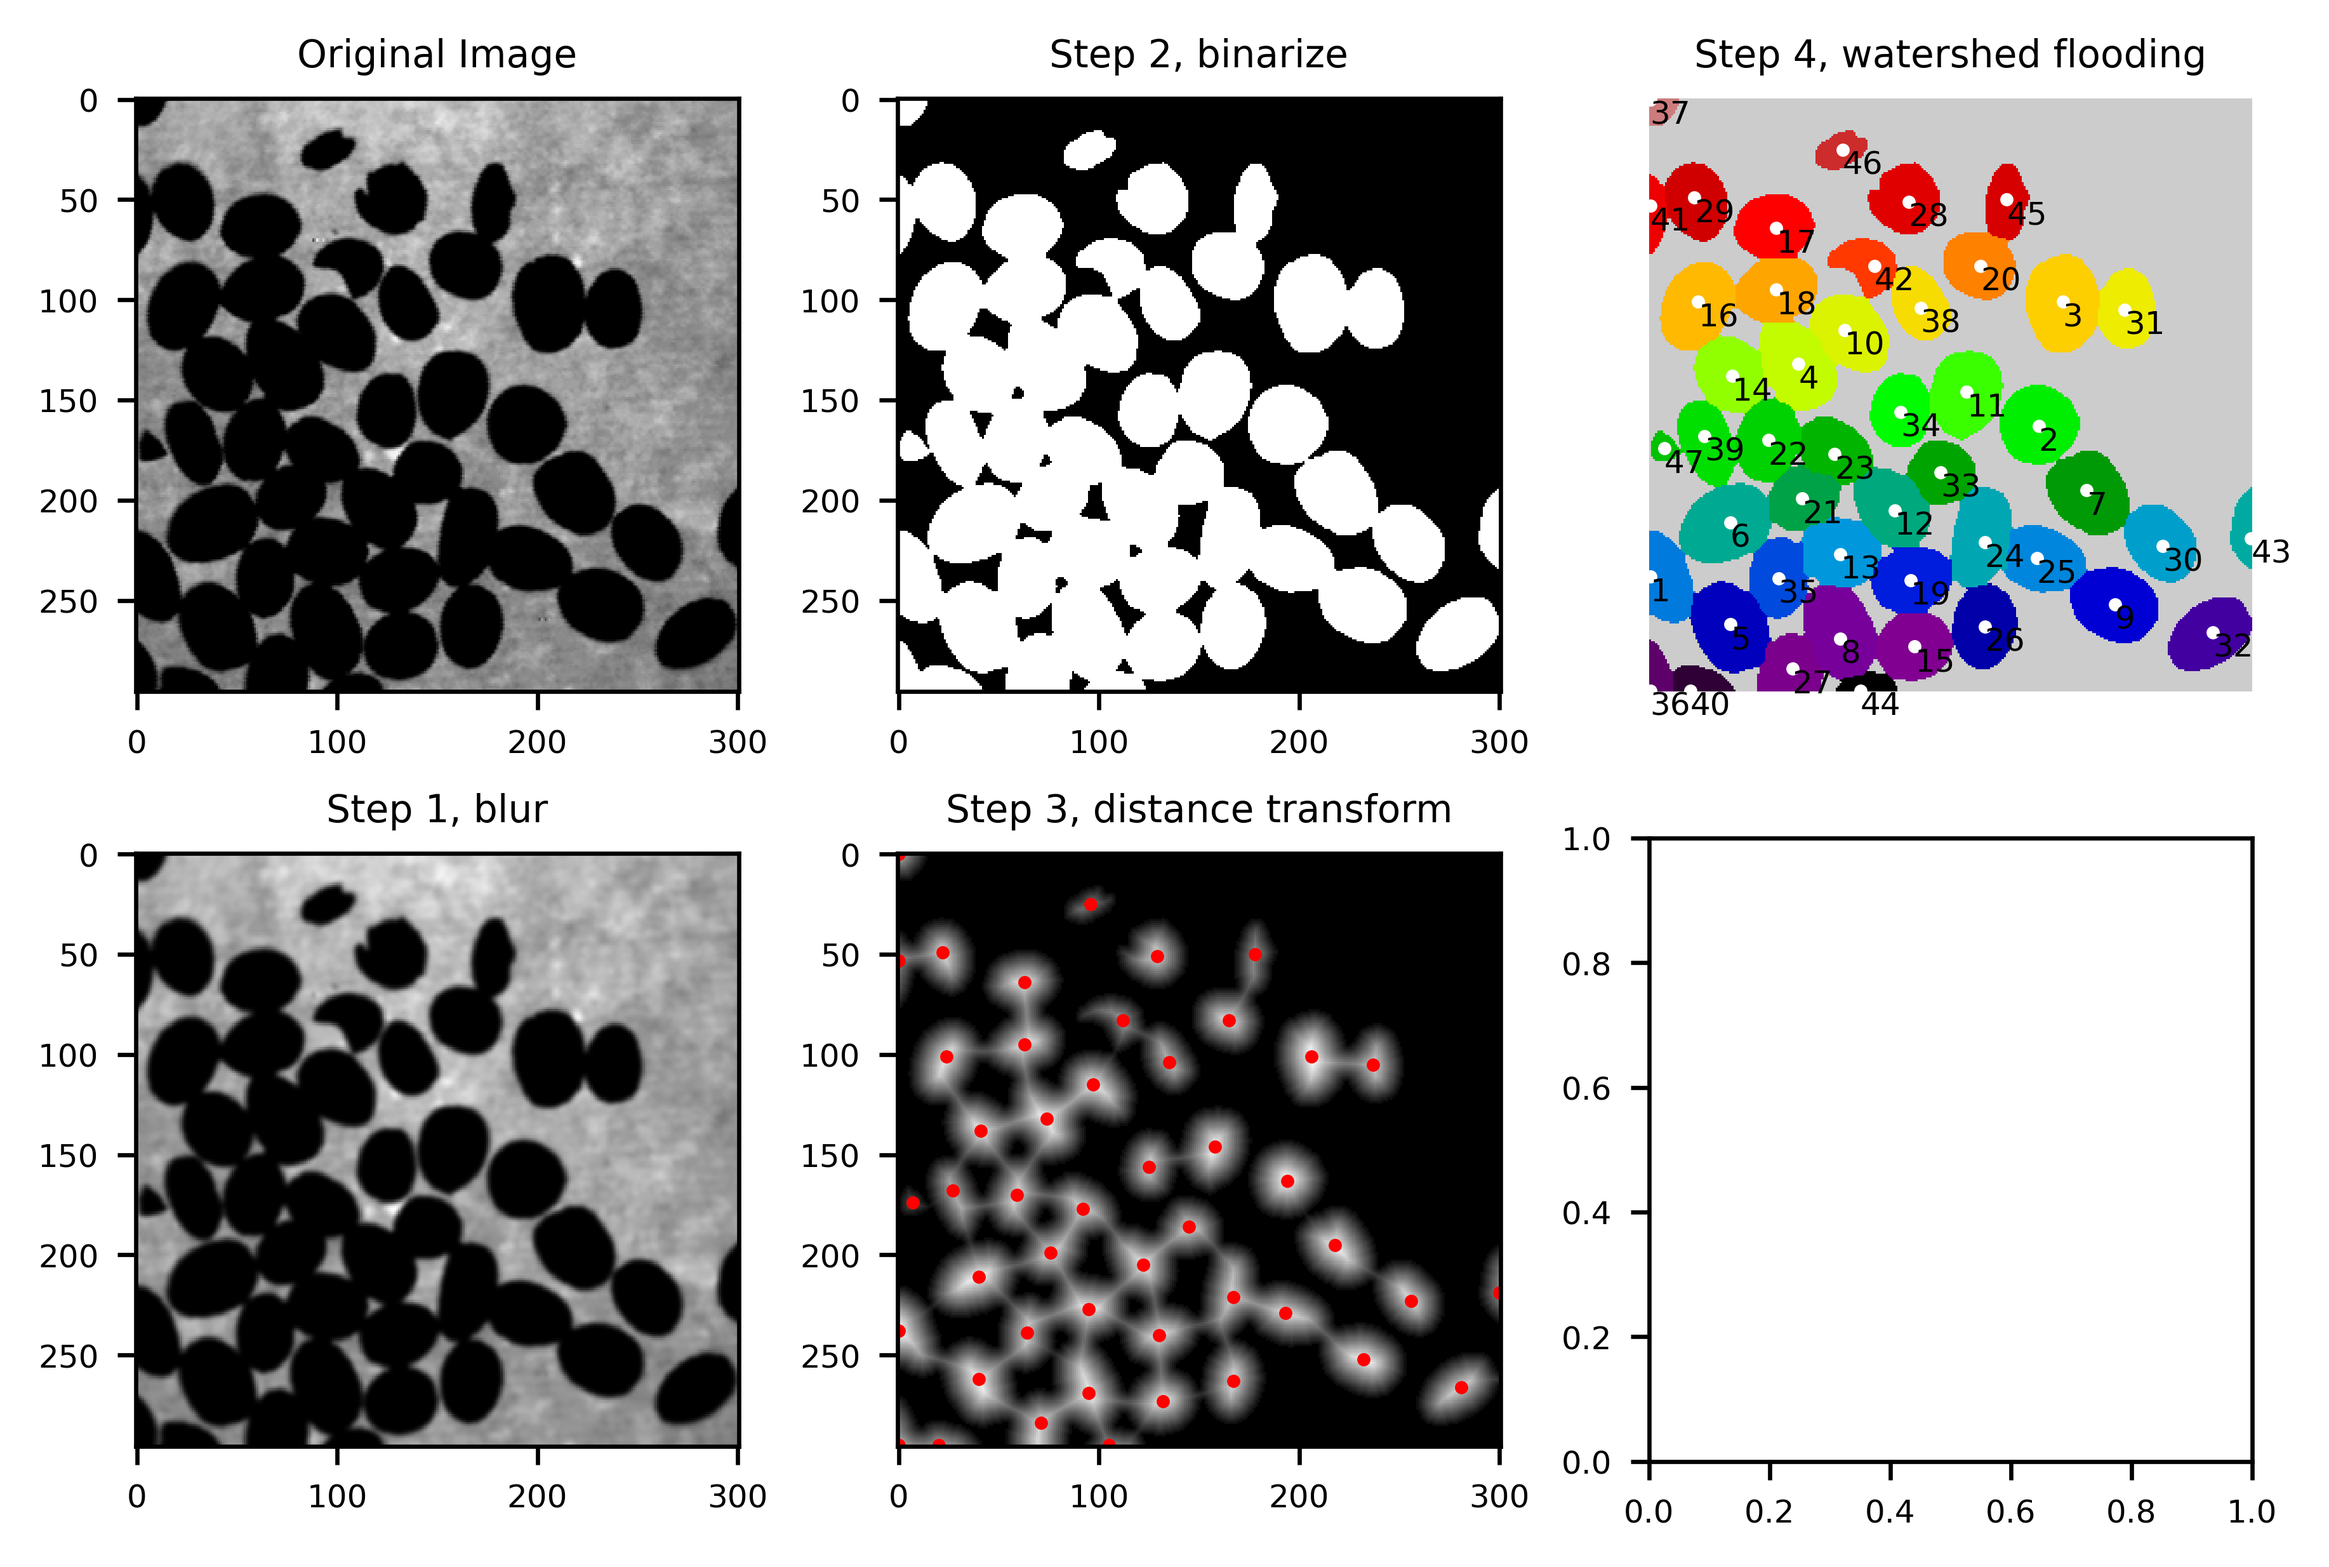
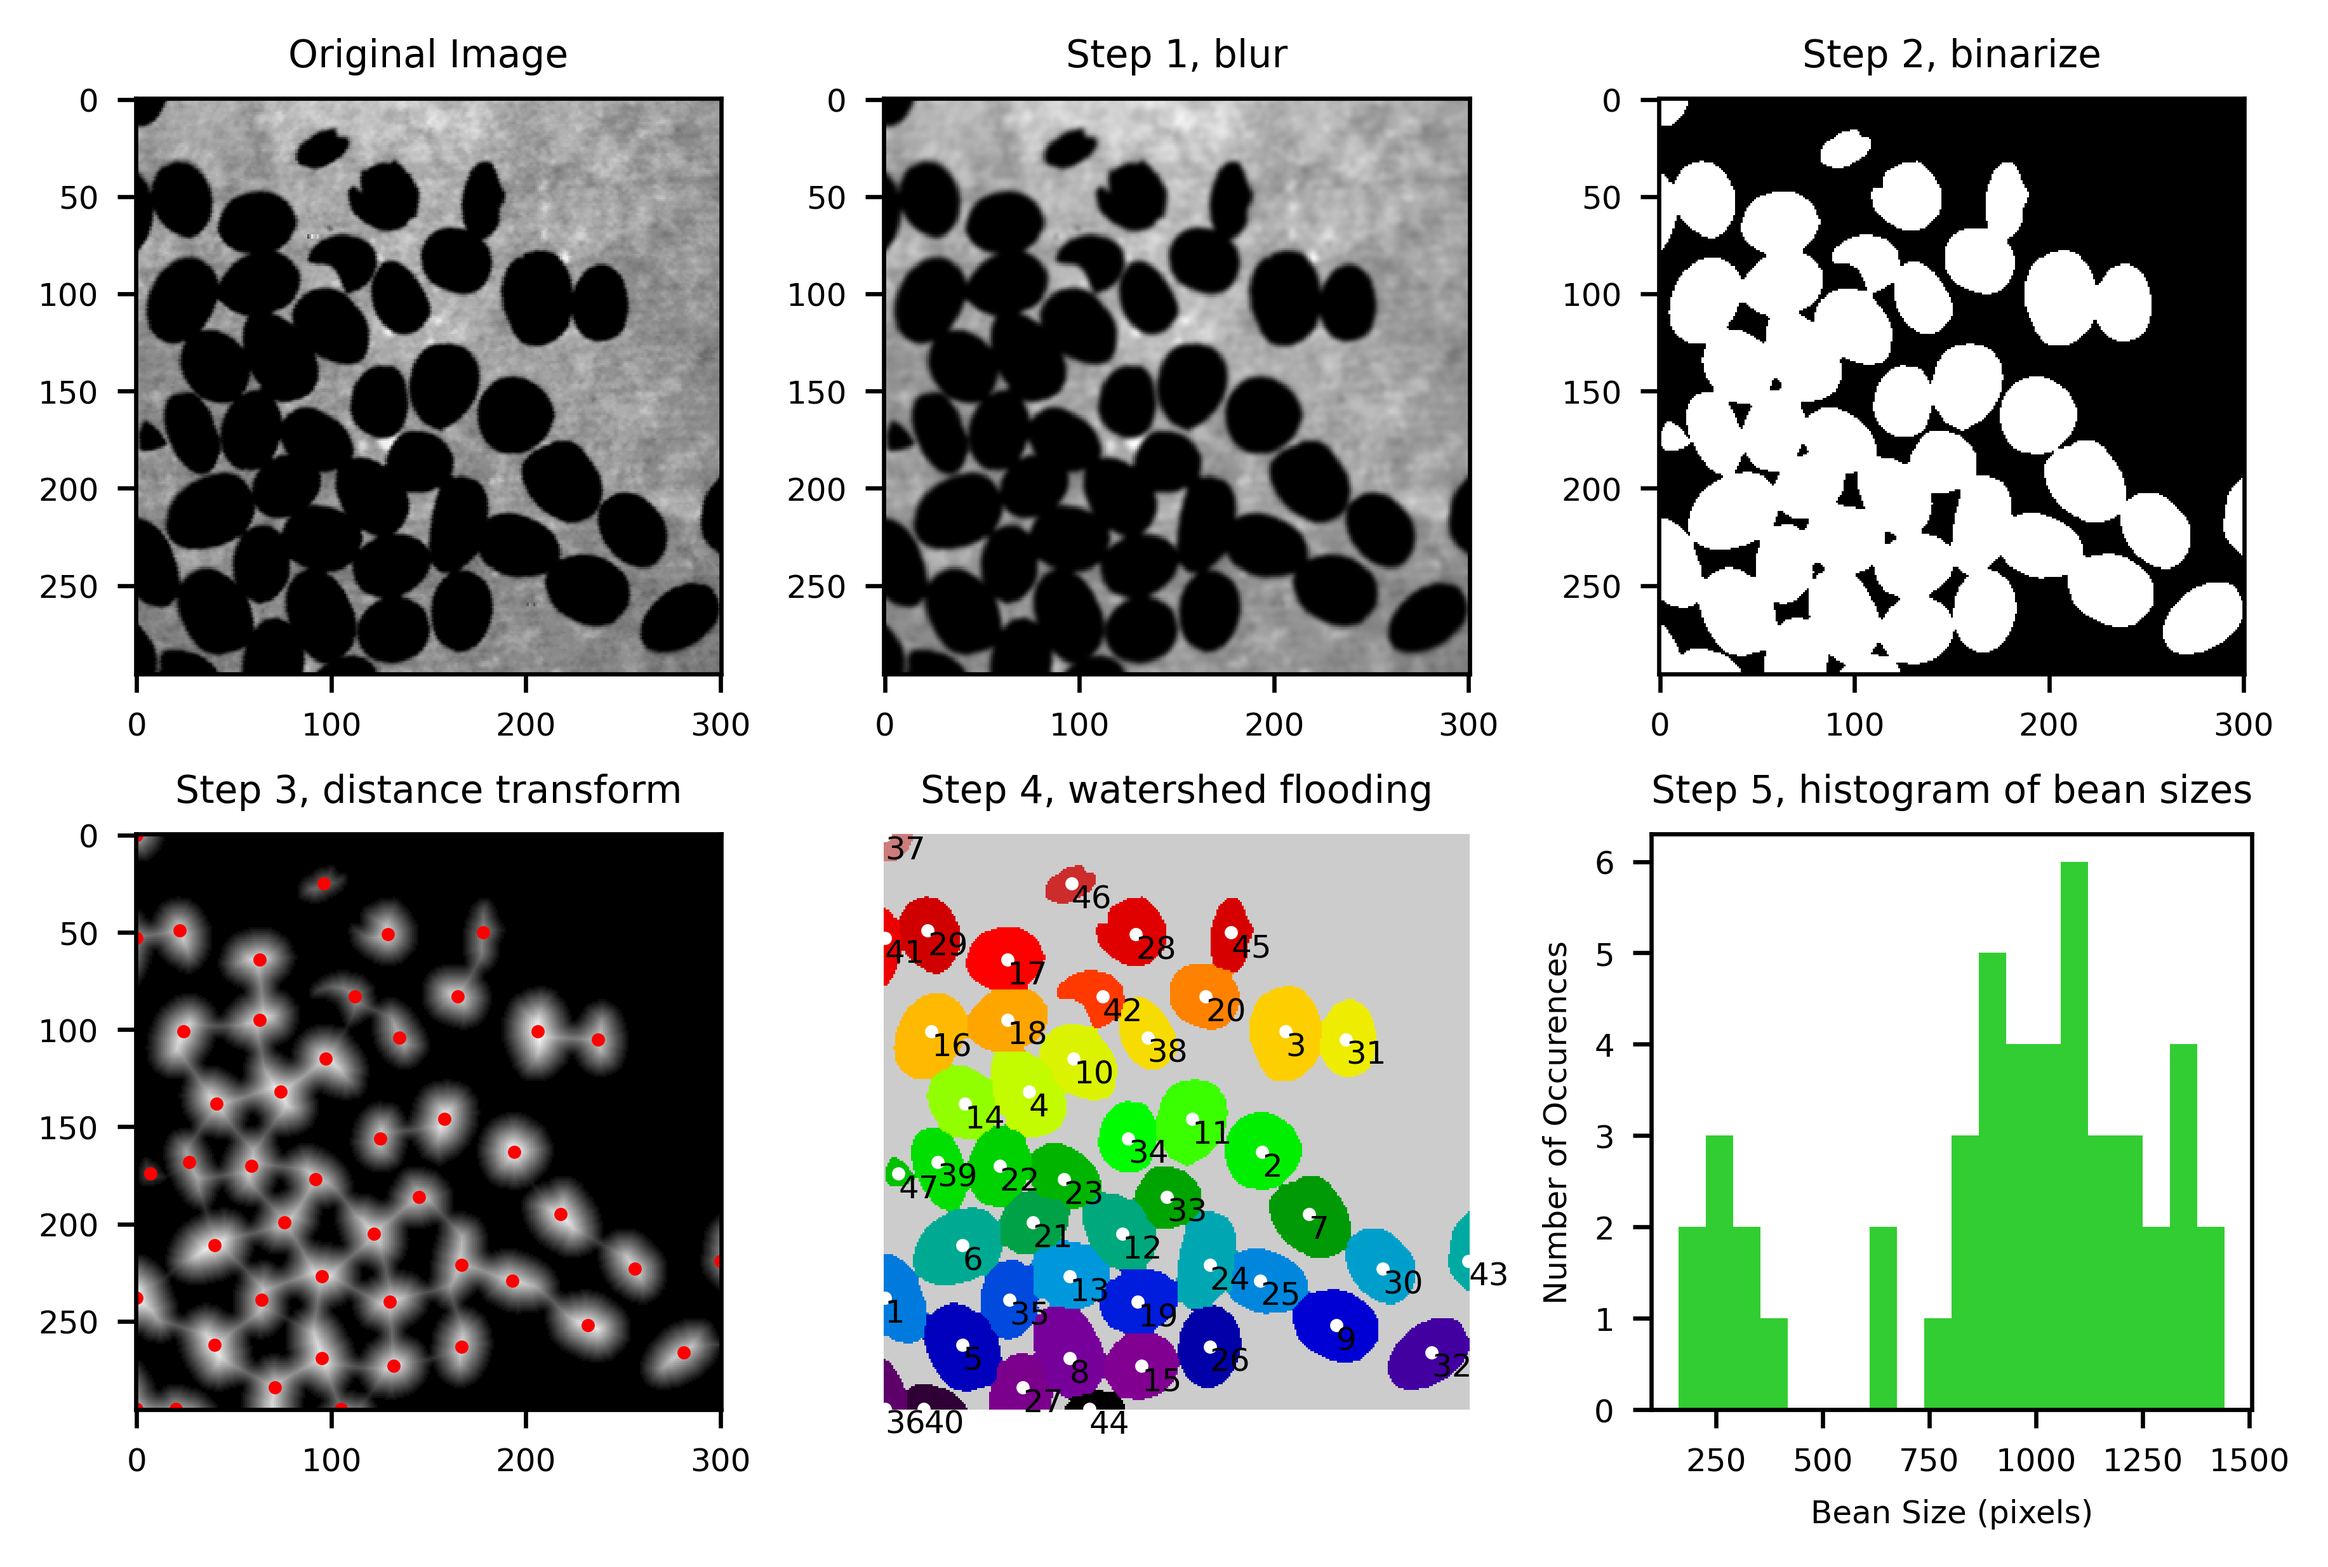
finished assignment
added histogram and stats readout

diff --git a/HW3/coffee_beaner.py b/HW3/coffee_beaner.py
@@ -9,8 +9,8 @@ import cv2
 # ~~~~~~~~~ DEFINITIONS ~~~~~~~~~
 MAX_PIXELS = 500 * 500
 PLOT_GRID = (2, 3)
-PLOC1 = (1,1); PLOC2 = (1,2); PLOC5 = (1,3);
-PLOC3 = (2,1); PLOC4 = (2,2); PLOC6 = (2,3);
+PLOC1 = (1,1); PLOC3 = (1,2); PLOC2 = (1,3);
+PLOC4 = (2,1); PLOC5 = (2,2); PLOC6 = (2,3);
 
 # ~~~~~~~~~~ FUNCTIONS ~~~~~~~~~~
 # display images and figures on 2D grid of plots with name ax[][]
@@ -105,7 +105,6 @@ imgSegments = ski.segmentation.watershed(-imgDistTrans, labels, mask=imgBinary)
 imgNEW = imgSegments
 easy_plot(imgNEW, PLOC5, 'Step 4, watershed flooding', colors=plt.cm.nipy_spectral_r)
 print("Coffee bean count 2: ", int(count))
-print(lowPoints.shape)
 easy_plot(lowPoints, PLOC5, plotType='pointOverlay', colors='w.')
 ax[PLOC5[0]-1][PLOC5[1]-1].set_axis_off()
 for n in range(lowPoints.shape[0]):
@@ -114,3 +113,30 @@ for n in range(lowPoints.shape[0]):
                                         horizontalalignment='left',
                                         verticalalignment='top',
                                         color='black')
+
+# count beans and plot histogram for size
+segmentProps = ski.measure.regionprops(imgSegments)
+areas = np.zeros(count)
+for n in range(count):
+    areas[n] = segmentProps[n].num_pixels
+histPlot = ax[PLOC6[0]-1][PLOC6[1]-1]
+histPlot.hist(areas, bins=20, color='limegreen')
+histPlot.set_xlabel('Bean Size (pixels)')
+histPlot.set_ylabel('Number of Occurences')
+histPlot.set_title('Step 5, histogram of bean sizes')
+
+# "Assuming that µ=average size of coffee beans, what is the probability
+# that there are coffee beans less than µ/2?"
+mean = sum(areas)/(count)
+print(f"Mean size of coffee beans = ~{mean:,.2f}")
+variance = 0
+for n in range(count):
+    variance = variance + (areas[n]-mean)**2
+variance = variance / (count - 1)
+print(f"Variance = ~{variance:,.2f}")
+samples = 0
+for n in range(count):
+    if areas[n] < (mean/2):
+        samples = samples + 1
+prob = 100 * samples / count
+print(f"Probability that a bean is < µ/2 = ~%{prob:,.2f}")
